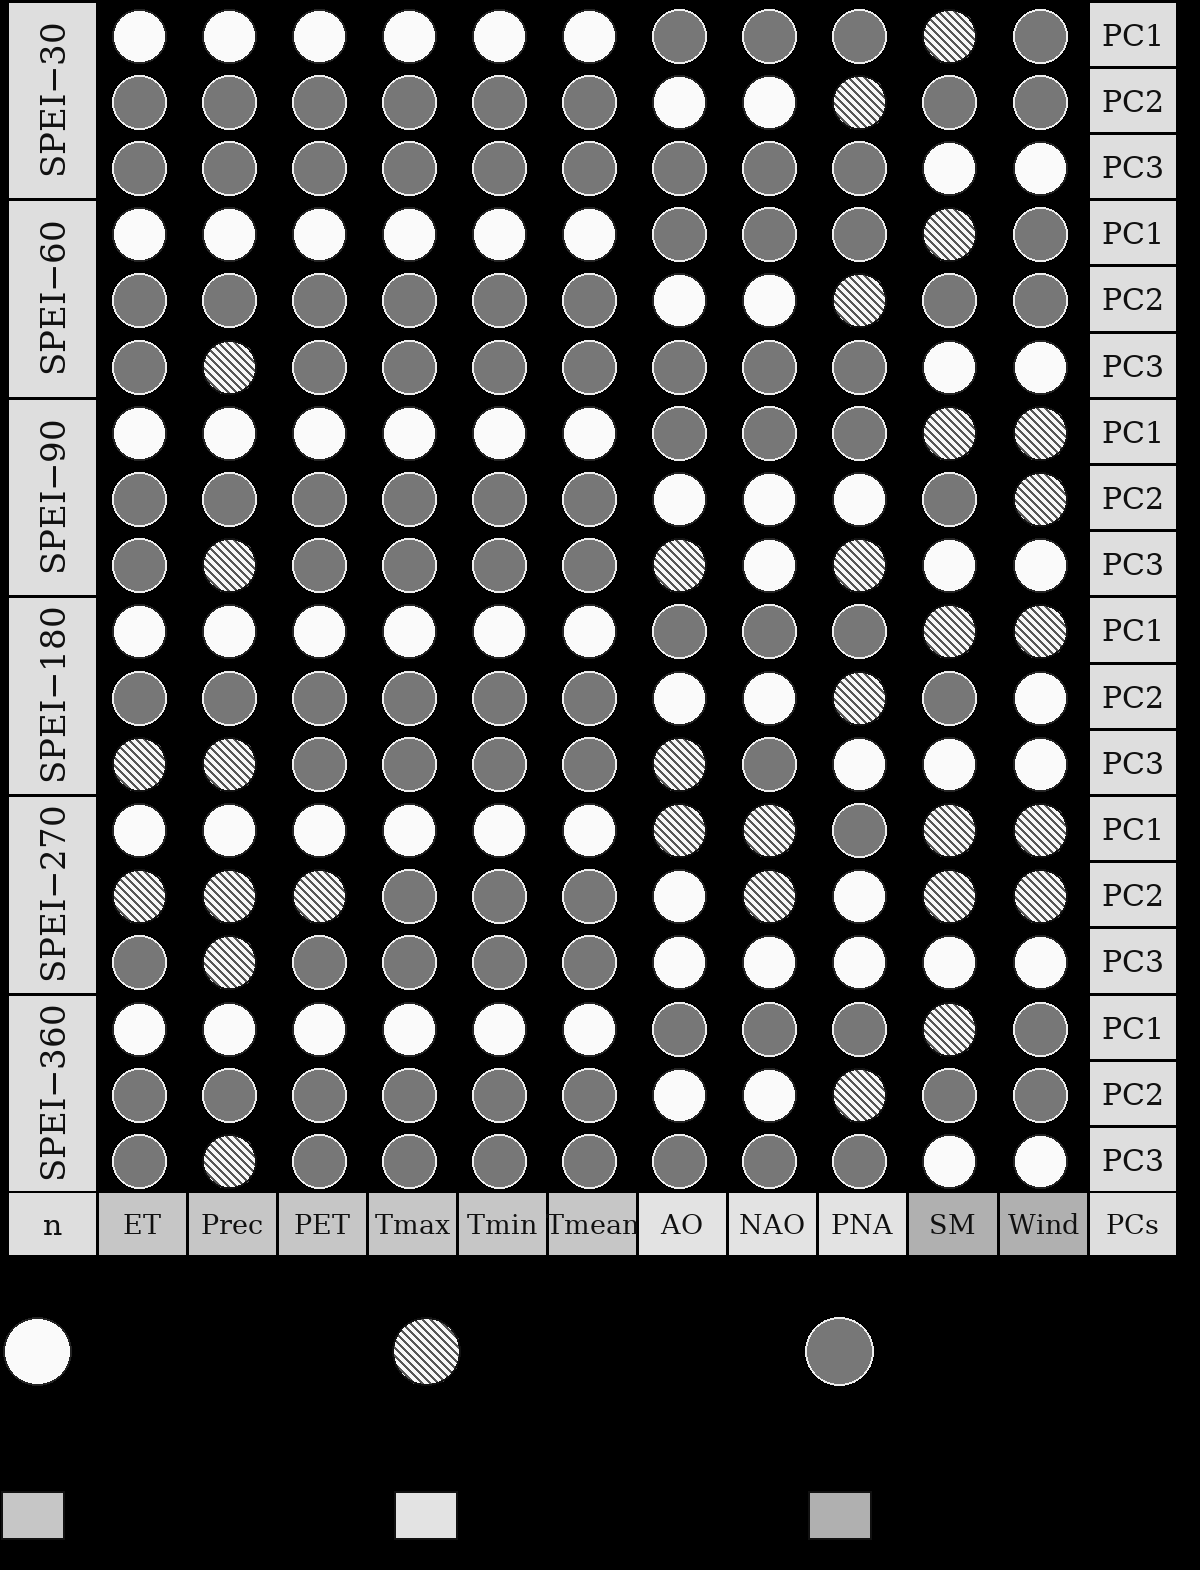
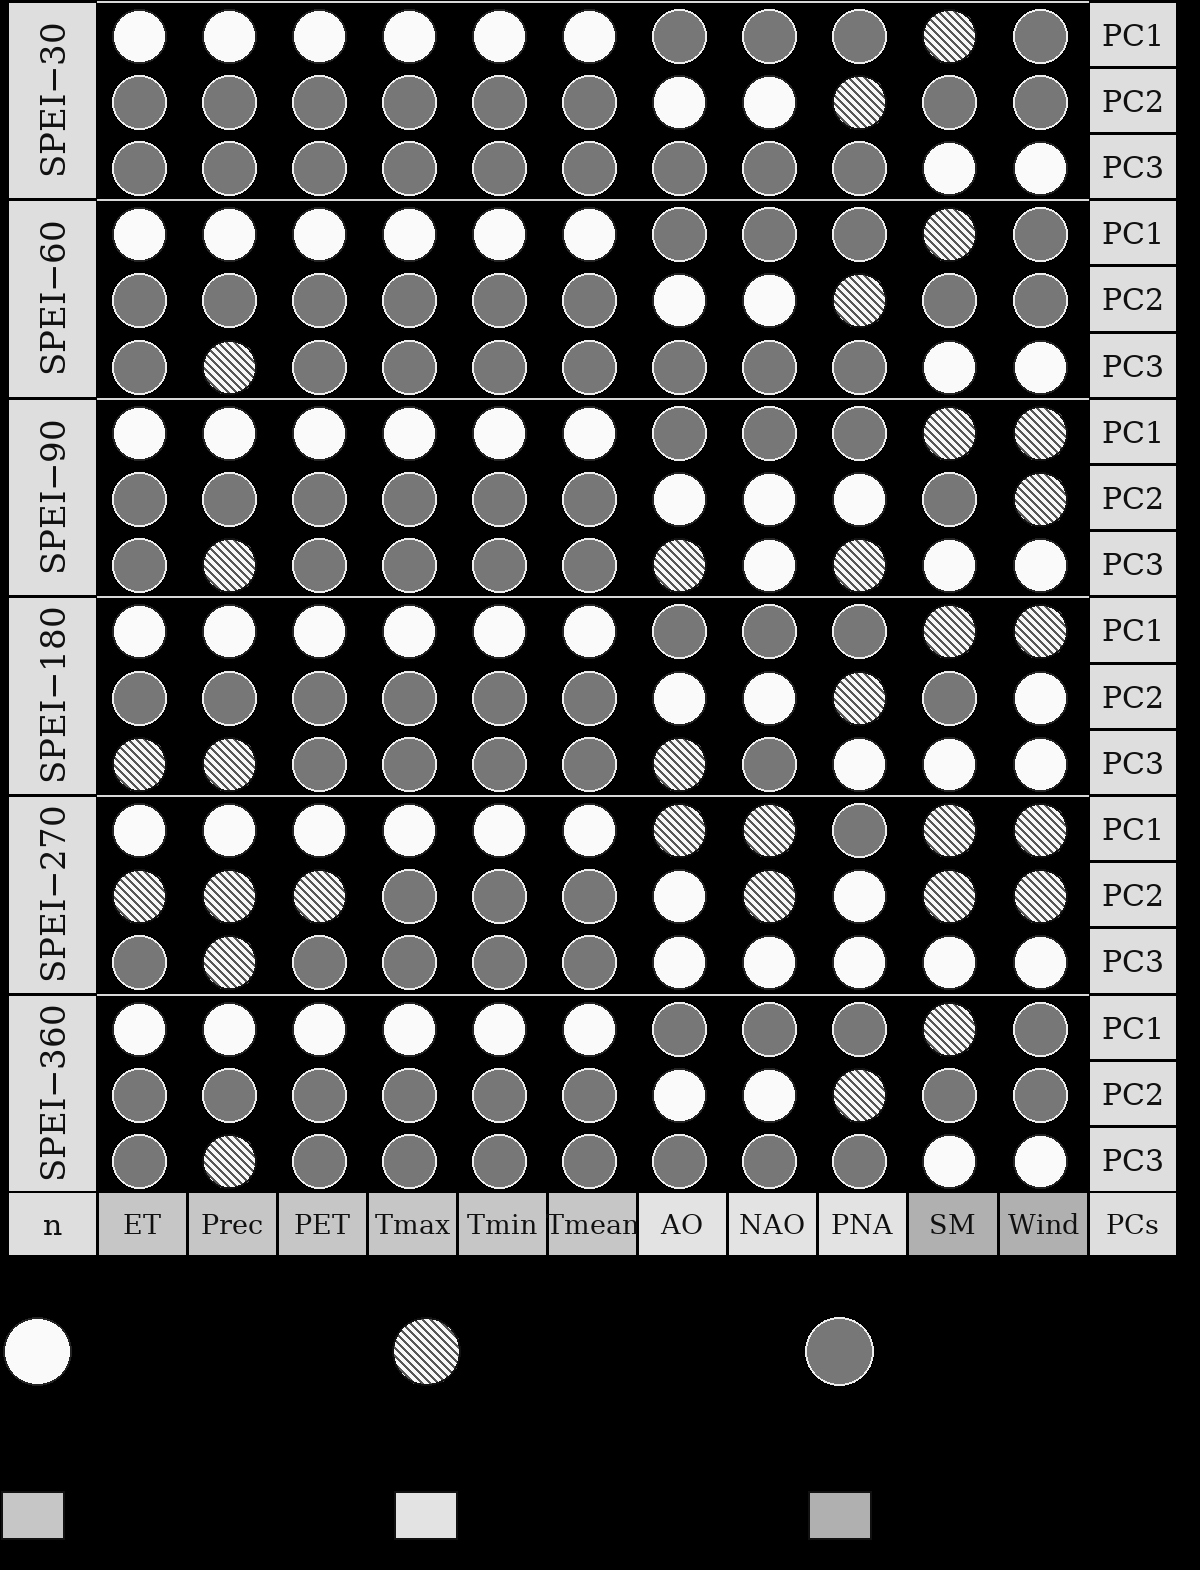
Preserve middle group separator lines

diff --git a/render_bw_png.py b/render_bw_png.py
@@ -27,6 +27,11 @@ for g,name in enumerate(groups):
  y=top+g*3*rh; box=(lx,int(y),97,int(y+3*rh)); d.rectangle(box,fill='#dedede',outline='black',width=2); vertical(box,name)
  for rr in range(3):
   py=int(y+rr*rh); b=(rx,py,1177,int(y+(rr+1)*rh)); d.rectangle(b,fill='#dedede',outline='black',width=2); centertext(b,f'PC{rr+1}',f30)
+# Preserve the original horizontal separators through the middle matrix.
+# Draw them before the balls so markers remain unobstructed.
+for g in range(7):
+ y=int(top+g*3*rh)
+ d.line((97,y,1088,y),fill='#d8d8d8',width=2)
 for r,row in enumerate(rows):
  for c,k in enumerate(row):ball(int(139+c*cw),int(36+r*rh),k)
 hy=1191; b=(7,hy,97,1256); d.rectangle(b,fill='#dedede',outline='black',width=2); centertext(b,'n',f30)
